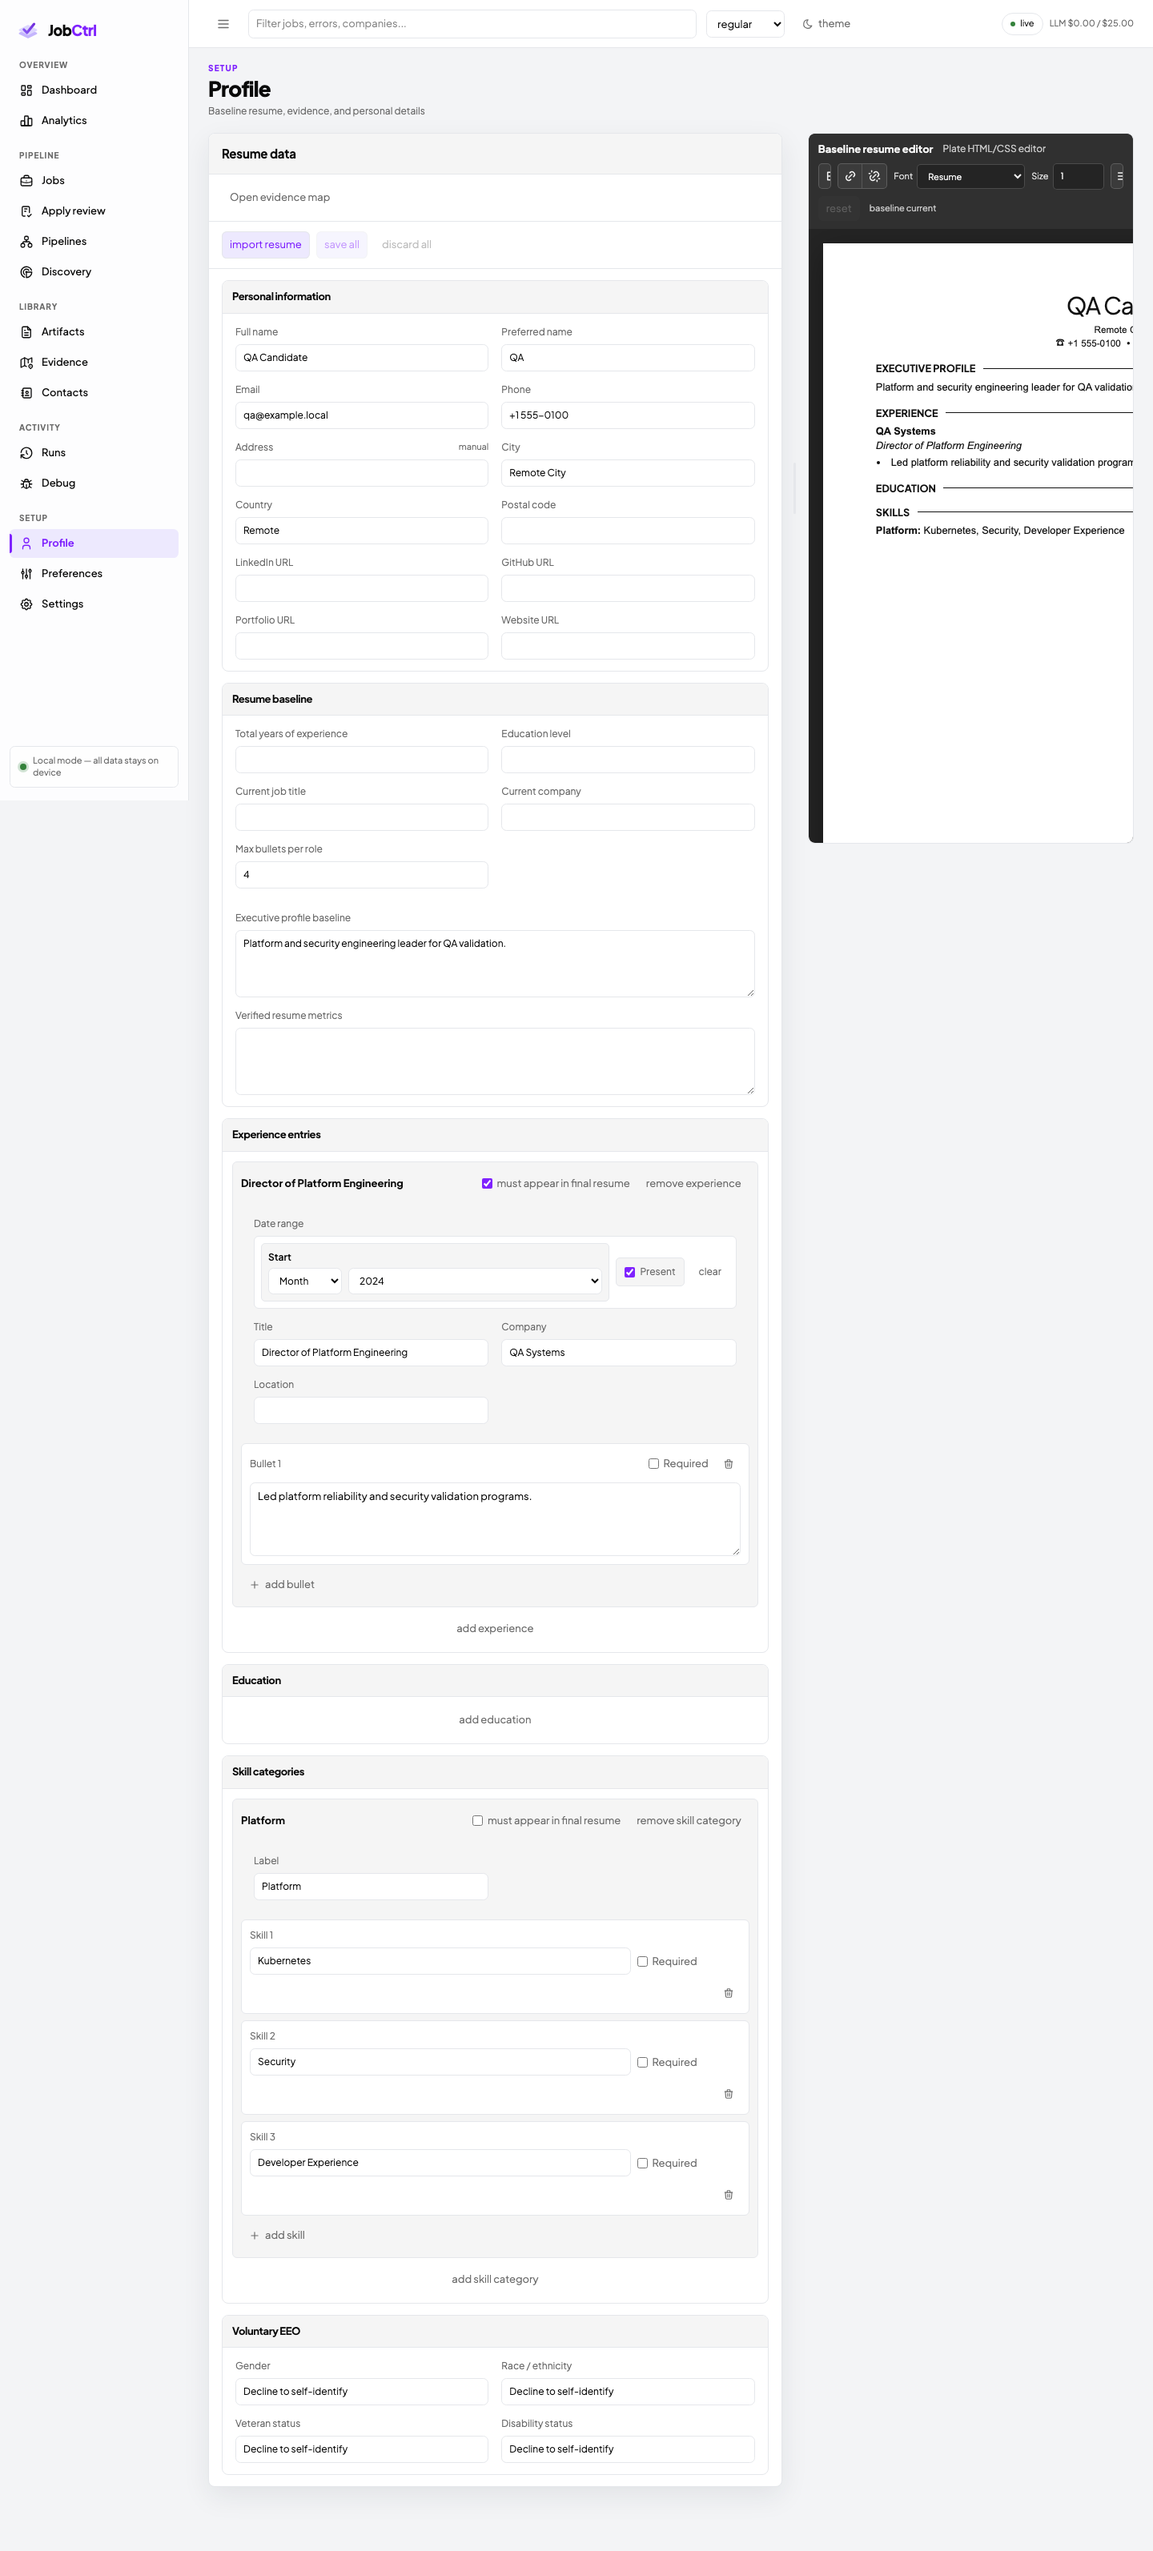
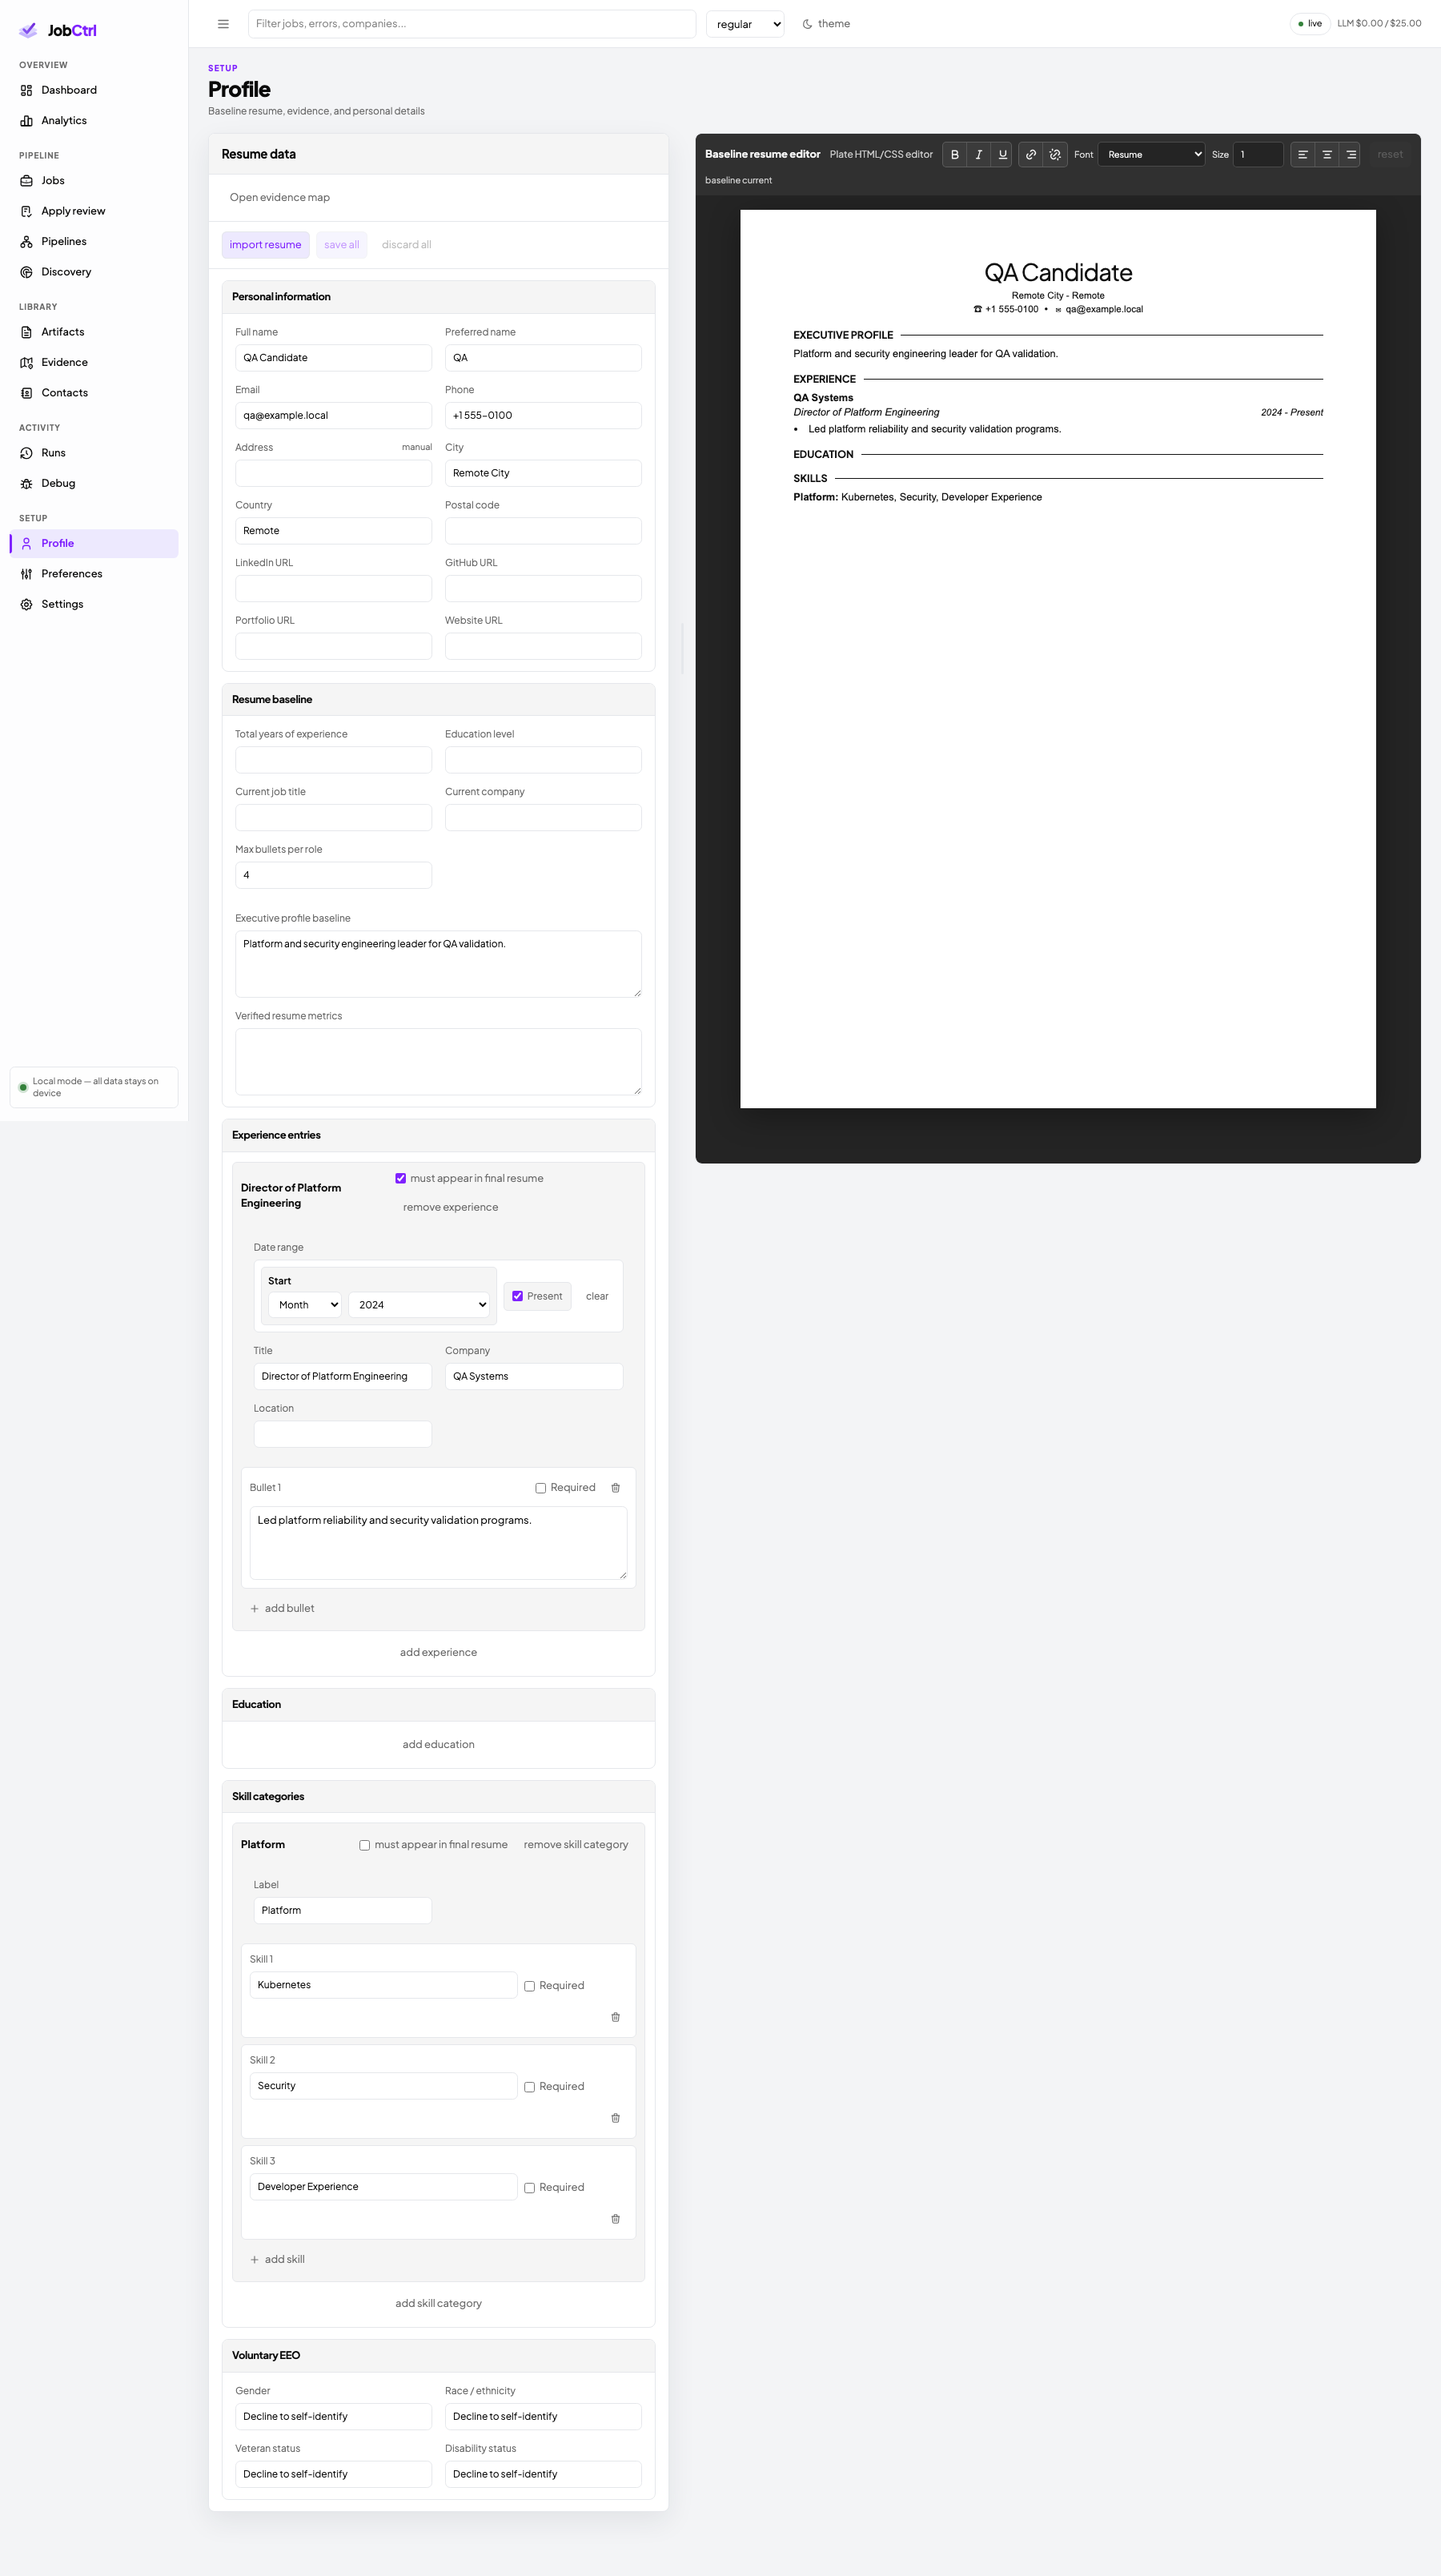
fix(docs): reframe the profile tour screenshot (#390)
## Summary

- recapture the synthetic Profile tour at a deterministic 1800×1400
viewport
- give the resume editor enough width to include the complete A4 preview
- assert editor/page containment and the absence of hidden internal
overflow
- regenerate only the Profile screenshot asset

## Why

The committed raster permanently clipped the resume preview because the
Profile route inherited the narrower universal capture framing.
VitePress could scale the image, but it could not recover pixels that
were never captured.

## Validation

- documentation screenshot workflow: 1/1 passed
- web typecheck: passed
- docs build: 5,025 references resolved
- docs runtime assertions: passed
- release privacy check: passed
- rendered checks at 1285×1397 and 390×844: passed

## Stack

1 of 4. Base: `main`. Next: `fix/docs-tour-layout-navigation`.

diff --git a/apps/web/e2e/tests/docs-screenshots.spec.ts b/apps/web/e2e/tests/docs-screenshots.spec.ts
@@ -24,7 +24,13 @@ interface ScreenshotSurface {
   readonly name: string;
   readonly path: string;
   readonly proof: (page: Page) => Locator;
+  readonly verify?: (page: Page) => Promise<void>;
+  readonly viewport?: { readonly width: number; readonly height: number };
 }
+
+const defaultCaptureViewport = { width: 1440, height: 1000 } as const;
+const profileCaptureViewport = { width: 1800, height: 1400 } as const;
+const profileEditorWidth = 38;
 
 const surfaces: readonly ScreenshotSurface[] = [
   {
@@ -48,6 +54,8 @@ const surfaces: readonly ScreenshotSurface[] = [
     path: "/profile",
     proof: (page) =>
       page.locator('[aria-label="Editable baseline resume page"]'),
+    verify: verifyProfileFraming,
+    viewport: profileCaptureViewport,
   },
   {
     name: "discovery.png",
@@ -68,7 +76,7 @@ const surfaces: readonly ScreenshotSurface[] = [
 
 test.use({
   colorScheme: "light",
-  viewport: { width: 1440, height: 1000 },
+  viewport: defaultCaptureViewport,
 });
 
 test.beforeAll(async () => {
@@ -97,6 +105,37 @@ async function capture(page: Page, name: string): Promise<void> {
   }
 }
 
+async function verifyProfileFraming(page: Page): Promise<void> {
+  const preview = page.locator(".resume-editor-preview");
+  const resumePage = page.locator('[aria-label="Editable baseline resume page"]');
+  const scrollPane = page.locator(".profile-resume-plate-editor .resume-plate-scroll");
+  const [previewBox, resumePageBox, scrollMetrics] = await Promise.all([
+    preview.boundingBox(),
+    resumePage.boundingBox(),
+    scrollPane.evaluate((element) => ({
+      clientHeight: element.clientHeight,
+      clientWidth: element.clientWidth,
+      scrollHeight: element.scrollHeight,
+      scrollWidth: element.scrollWidth,
+    })),
+  ]);
+
+  expect(previewBox, "Profile resume preview must have a capture box").not.toBeNull();
+  expect(resumePageBox, "Profile A4 page must have a capture box").not.toBeNull();
+  if (!previewBox || !resumePageBox) return;
+
+  expect(resumePageBox.x).toBeGreaterThanOrEqual(previewBox.x);
+  expect(resumePageBox.y).toBeGreaterThanOrEqual(previewBox.y);
+  expect(resumePageBox.x + resumePageBox.width).toBeLessThanOrEqual(
+    previewBox.x + previewBox.width,
+  );
+  expect(resumePageBox.y + resumePageBox.height).toBeLessThanOrEqual(
+    previewBox.y + previewBox.height,
+  );
+  expect(scrollMetrics.scrollWidth).toBe(scrollMetrics.clientWidth);
+  expect(scrollMetrics.scrollHeight).toBe(scrollMetrics.clientHeight);
+}
+
 test("capture public documentation screenshots from synthetic seed data", async ({
   page,
 }) => {
@@ -104,12 +143,19 @@ test("capture public documentation screenshots from synthetic seed data", async 
     process.env.JOBCTRL_DOCS_SCREENSHOTS !== "1",
     "Rewrites docs/assets/screenshots — opt in via JOBCTRL_DOCS_SCREENSHOTS=1 (pnpm docs:screenshots sets it).",
   );
+  await page.addInitScript(
+    ({ key, value }) => window.localStorage.setItem(key, JSON.stringify(value)),
+    { key: "jh:profile-preview-split-width", value: profileEditorWidth },
+  );
   for (const surface of surfaces) {
+    await page.setViewportSize(surface.viewport ?? defaultCaptureViewport);
     await page.goto(surface.path);
     await waitForRoute(page, surface.proof(page));
+    await surface.verify?.(page);
     await capture(page, surface.name);
   }
 
+  await page.setViewportSize(defaultCaptureViewport);
   await page.goto(`/jobs/${encodeURIComponent(platformJobUrl)}?${jobsFilterParams}`);
   const jobDialog = page.getByRole("dialog", { name: "Job details" });
   await waitForRoute(page, jobDialog);
